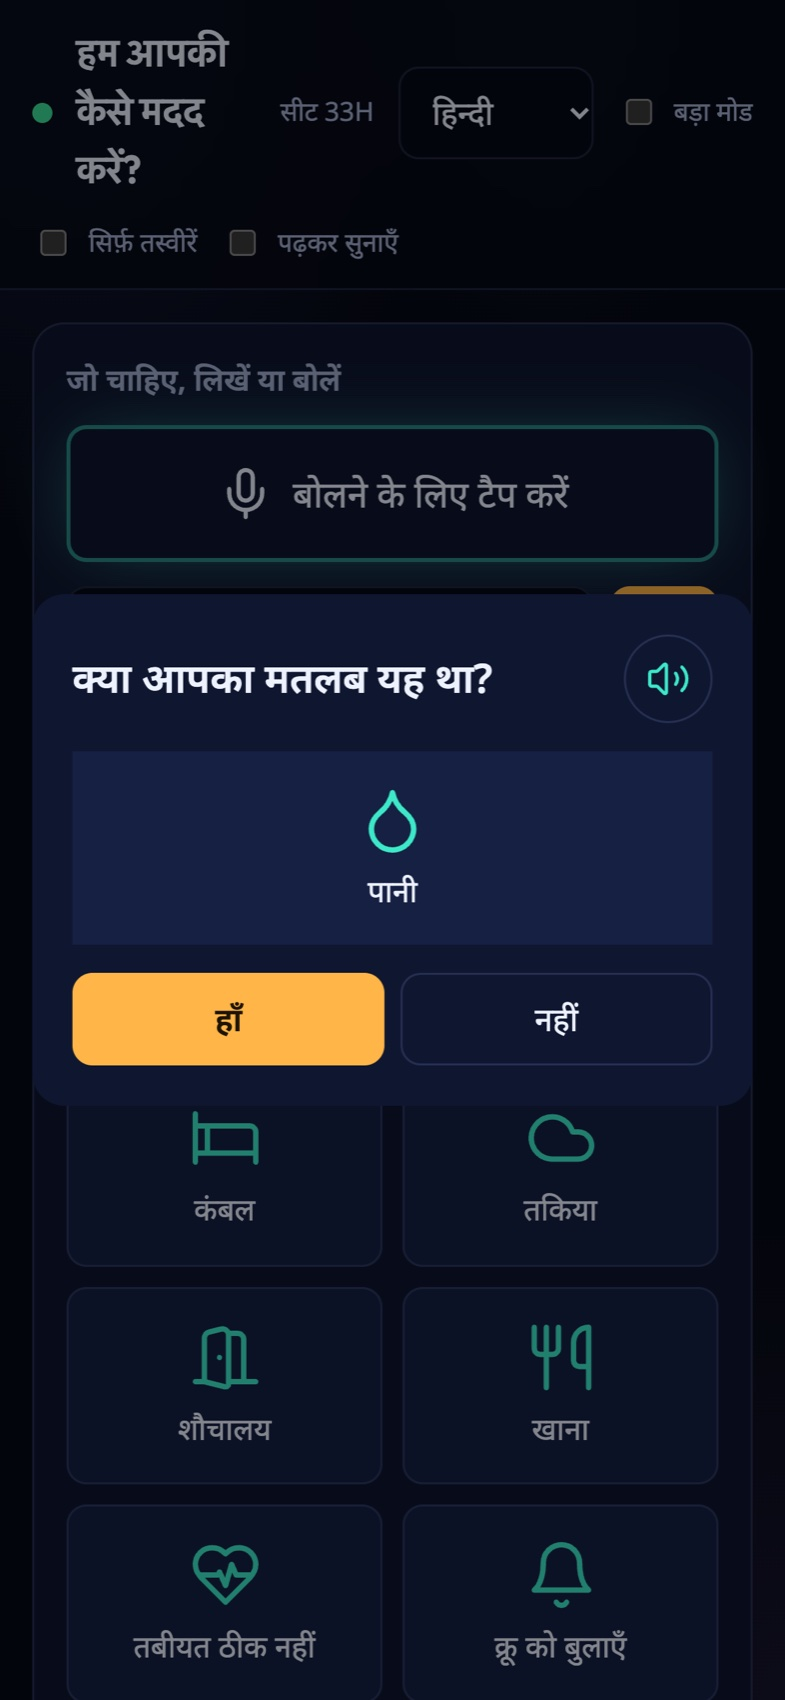
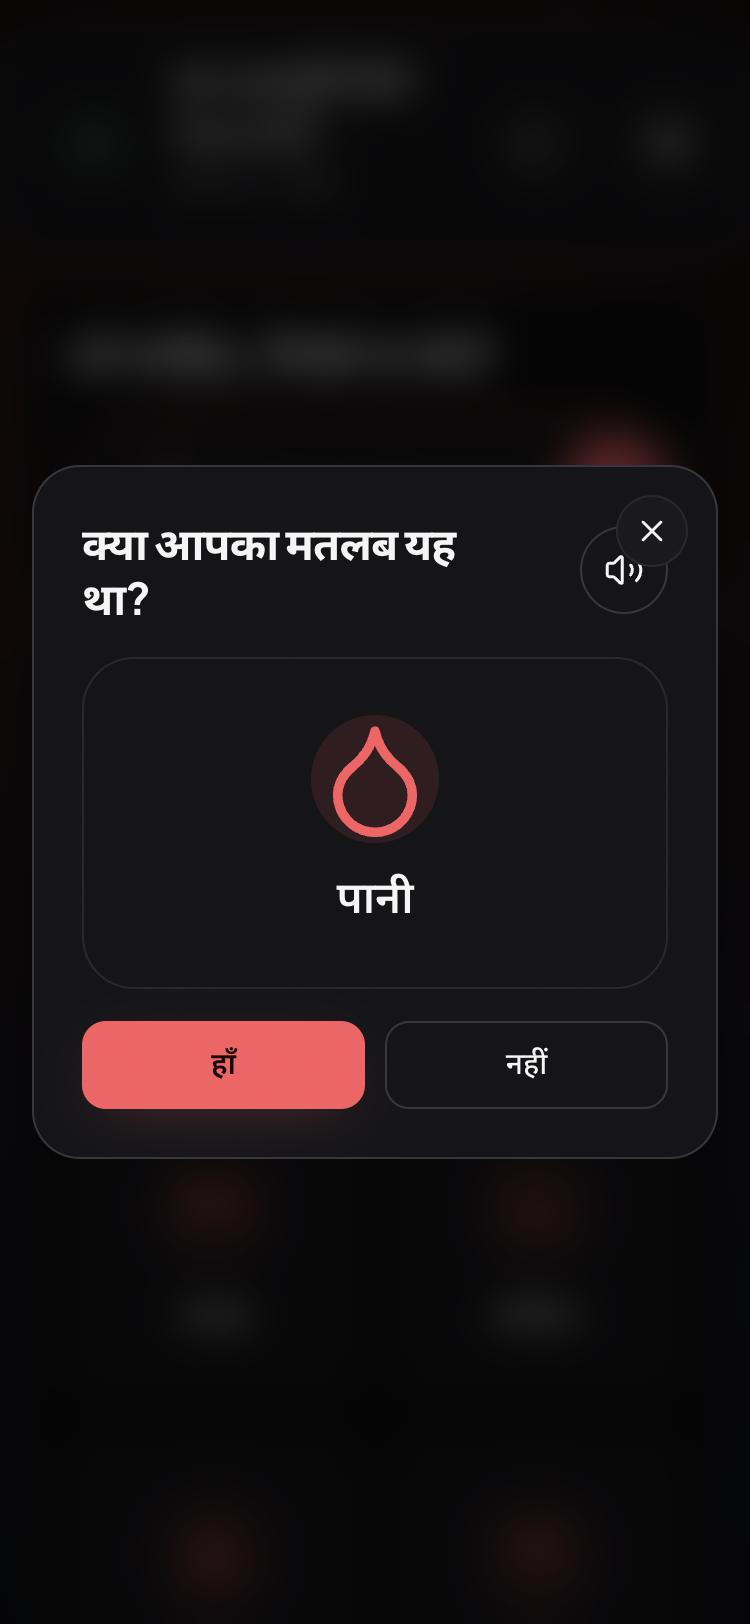
Update README with the onboarding assistant, scanner and deploy options
Fresh screenshots (onboarding, language picker, seat picker, crew
tablet, cabin-map colours) replace stale pre-redesign ones. New
feature-guide sections cover the onboarding assistant, the shared
cabin scanner and cabin-map accessibility colours; a new deploying
section covers Docker, Render, Hugging Face Spaces and the Cloudflare
tunnel. Test count and page paths updated to match the current app.

diff --git a/README.md b/README.md
@@ -15,7 +15,9 @@ pinned: false
 
   <p><strong>Every passenger, understood.</strong></p>
   <p>Repair-first communication between airline passengers and cabin crew, across accents, languages and a loud cabin.<br />
-  When speech is unclear, Auralink <strong>asks the passenger one simple question</strong> instead of guessing.</p>
+  When speech is unclear, Auralink <strong>asks the passenger one simple question</strong> instead of guessing.<br />
+  A guided onboarding assistant welcomes every passenger in their own language, and one shared scanner replaces a
+  QR code per seat.</p>
 
   <p>
     <a href="https://github.com/goyalnishtha841/auralink/actions/workflows/tests.yml"><img src="https://github.com/goyalnishtha841/auralink/actions/workflows/tests.yml/badge.svg" alt="tests" /></a>
@@ -48,11 +50,17 @@ Every sentence a passenger or crew member reads comes from a reviewed template.
 
 <table>
   <tr>
-    <td width="32%" valign="top"><img src="docs/images/passenger.jpg" alt="Passenger phone in Hindi asking 'Did you mean: water?' with a yes/no button and an icon grid" /><br /><sub><b>Passenger phone.</b> No app to install: scan the seat QR. Asks instead of guessing, in the passenger's language, with pictures.</sub></td>
-    <td width="68%" valign="top"><img src="docs/images/crew.png" alt="Crew tablet in Japanese with an urgent possible-medical card for seat 31C, safety briefing seat map and live PA captions" /><br /><sub><b>Crew tablet, in Japanese.</b> Urgent requests jump the queue before the passenger has even confirmed. Also on this screen: the safety-briefing heat map, care rounds, passenger needs and live PA captions.</sub></td>
+    <td width="32%" valign="top"><img src="docs/images/onboarding.jpg" alt="A guided onboarding screen: 'Welcome aboard!' with an illustrated crew-avatar assistant in front of a cabin window, and a 'Let's get started' button" /><br /><sub><b>Onboarding assistant.</b> Every first-time passenger gets a short, skippable tour from an illustrated crew avatar, before anything else.</sub></td>
+    <td width="32%" valign="top"><img src="docs/images/languages.jpg" alt="Onboarding language picker listing English, Hindi, Tamil, Thai, Chinese, Spanish, French, Italian and more" /><br /><sub><b>16 languages.</b> Every onboarding screen, request and crew reply is fully translated, not just the ones Auralink can speak aloud.</sub></td>
+    <td width="32%" valign="top"><img src="docs/images/seat-picker.jpg" alt="A tap-your-seat cabin map, a 'Tap to say your seat number' microphone button, and a 'Scan boarding pass' option" /><br /><sub><b>One shared scanner.</b> No screen at every seat? One QR code for the whole cabin: tap a seat, say it, or scan a boarding pass.</sub></td>
   </tr>
   <tr>
-    <td colspan="2"><img src="docs/images/judge.png" alt="Under-the-hood view: the sentence, the words that matter, the split rule, and a scored bar for each candidate intent with the t1 threshold" /><br /><sub><b>Under the hood (the jury screen).</b> Every decision in the open: which words mattered, which rule fired, and how each request was scored against the thresholds.</sub></td>
+    <td width="32%" valign="top"><img src="docs/images/passenger.jpg" alt="Passenger phone in Hindi asking 'Did you mean: water?' with a yes/no button and an icon grid" /><br /><sub><b>Passenger phone.</b> Asks instead of guessing, in the passenger's language, with pictures.</sub></td>
+    <td width="32%" valign="top"><img src="docs/images/crew.jpg" alt="Crew tablet in Japanese with an urgent possible-medical card for seat 34K, water and blanket request cards, safety briefing seat map and live PA captions" /><br /><sub><b>Crew tablet, in Japanese.</b> Urgent requests jump the queue before the passenger has even confirmed.</sub></td>
+    <td width="32%" valign="top"><img src="docs/images/cabin-map.jpg" alt="Crew cabin map with a colour key: red for urgent, violet for accessibility, amber for an open request, grey for no request" /><br /><sub><b>Cabin map, at a glance.</b> A seat with an accessibility profile on file is shown in violet, distinct from a plain open request.</sub></td>
+  </tr>
+  <tr>
+    <td colspan="3"><img src="docs/images/judge.png" alt="Under-the-hood view: the sentence, the words that matter, the split rule, and a scored bar for each candidate intent with the t1 threshold" /><br /><sub><b>Under the hood (the jury screen).</b> Every decision in the open: which words mattered, which rule fired, and how each request was scored against the thresholds.</sub></td>
   </tr>
 </table>
 
@@ -60,7 +68,8 @@ Every sentence a passenger or crew member reads comes from a reviewed template.
 
 - [How it works](#how-it-works) · [Results](#results) · [Features](#features)
 - [Run it](#run-it) · [On phones](#on-phones) · [Testing and CI](#testing-and-ci)
-- [Feature guide](#feature-guide) · [For developers](#for-developers) · [Evaluation](#evaluation)
+- [Feature guide](#feature-guide) · [Deploying a live demo](#deploying-a-live-demo)
+- [For developers](#for-developers) · [Evaluation](#evaluation)
 
 ## How it works
 
@@ -134,10 +143,18 @@ matching, and **1.0–1.2 s** from the end of speech to the confirm screen (targ
 
 ## Features
 
+- **A guided onboarding assistant**: a short, skippable tour from an illustrated crew avatar on a
+  passenger's first visit, fully translated into 16 languages, not just the ones Auralink can speak aloud
+  ([onboarding assistant](#onboarding-assistant))
+- **One shared scanner for the whole cabin**: tap a seat on a map, say it out loud, or scan a boarding
+  pass — no screen (and no printed QR code) needed at every seat ([shared scanner](#shared-cabin-scanner))
 - **Voice, text or icons, in the passenger's language**: Whisper n-best plus a phonetic matcher, with a
   confirm step instead of guessing ([what is real](#what-is-real-and-what-is-a-placeholder))
 - **Accent-aware matching** with hand-set and learned accent costs ([evaluation](#evaluation),
   [learned costs](#learned-accent-costs))
+- **Accessibility as a first-class signal**: a passenger's accessibility profile follows them from
+  check-in onto the crew's cabin map, shown in its own colour, distinct from a plain open request
+  ([cabin-map colours](#cabin-map-accessibility-colours))
 - **Safety briefing that checks understanding**: a live seat heat map of who understood, who wants it
   explained again, and an exit-row check
 - **Check-in at the gate** for language and accessibility needs ([check-in](#check-in-the-airport-stage))
@@ -147,7 +164,10 @@ matching, and **1.0–1.2 s** from the end of speech to the confirm screen (targ
 - **Crash recovery**: cabin state survives a hub restart ([crash recovery](#crash-recovery))
 - **Crew PIN**: crew, presenter, report and jury screens are locked on the shared cabin Wi-Fi ([crew PIN](#crew-pin))
 - **New languages without code or retraining** ([adding a language](#adding-a-language-no-code-no-retraining)):
-  Hindi, Tamil, Thai, English and Hinglish today
+  16 languages of onboarding and request text today, with speech recognition and offline voice in
+  English, Hindi, Tamil and Thai
+- **Deployable as a live demo in minutes**: Docker, a free Render web service, a free Hugging Face
+  Space, or a one-command tunnel from a laptop ([deploying a live demo](#deploying-a-live-demo))
 - **Voice collection** for the held-out evaluation set ([collecting voices](#collecting-voices))
 
 ## Run it
@@ -159,16 +179,21 @@ brew install espeak-ng          # phoneme matcher; apt install espeak-ng on Linu
 scripts/run.sh
 ```
 
-**Then open the Start page address the script prints (usually <http://localhost:8000/start.html>) on the same laptop.** The Start page explains everything in
-plain words: how phones reach the laptop with no internet, the seat QR code to scan, the crew PIN (shown
+**Then open the Start page address the script prints (usually <http://localhost:8000/start>) on the same laptop.** The Start page explains everything in
+plain words: how phones reach the laptop with no internet, how a passenger finds their seat, the crew PIN (shown
 only on this laptop), and what every page is for. To try it alone, open **Passenger** and **Crew** side by
 side, choose a language on the passenger screen, and type "thoda wotter and kambal".
 
 | Who | Opens | How |
 |---|---|---|
-| Passenger | `/passenger.html?seat=34K` | Scans the QR code on the seat (print them from `/seats.html`); picks a language the first time |
-| Cabin crew | `/crew.html` | Tablet on the same Wi-Fi; enters the crew PIN once |
-| Jury | `/judge.html` | Under the hood: how each request was understood (crew PIN) |
+| Passenger | `/passenger` | One shared scanner for the whole cabin: tap a seat on the map, say it, or scan a boarding pass. A first-time seat also gets the onboarding assistant |
+| Passenger (direct) | `/passenger?seat=34K` | A printable per-seat QR still works too (print them from `/seats`); picks a language the first time |
+| Cabin crew | `/crew` | Tablet on the same Wi-Fi; enters the crew PIN once |
+| Jury | `/judge` | Under the hood: how each request was understood (crew PIN) |
+
+The current screens are a Next.js app (`web/`), built to `web/out/` and served by the hub at these same
+paths (a `.html` suffix, e.g. `/passenger.html`, still works too). An older, plain HTML/JS set of screens
+ships alongside it as a fallback: `AURALINK_UI=classic scripts/run.sh`.
 
 Port 8000 busy (another app, for example another project's server)? `scripts/run.sh` and
 `scripts/demo.sh` then pick the next free port by themselves (8001, 8002 ...) and print the exact address,
@@ -230,10 +255,23 @@ certificate on each demo phone.
 
 </details>
 
+## Deploying a live demo
+
+| Option | Use when | How |
+|---|---|---|
+| Docker (full) | A persistent server with a few GB RAM, e.g. an Oracle Cloud Always Free Ampere VM | `docker compose up -d` (`Dockerfile`, `docker-compose.yml`, `Caddyfile` — automatic HTTPS) |
+| Render free web service | A free, no-card, always-on-ish link, trading away Free Talk's translation/voice | Connect the repo on Render as a **Blueprint** (`render.yaml` → `Dockerfile.render`, a trimmed build) |
+| Hugging Face Spaces | A free, no-card, full-featured link with more RAM than Render's free tier | Push to a Space's git remote (SDK: Docker — this README's front matter already has it) |
+| Cloudflare Quick Tunnel | Fastest: a public HTTPS link to a hub already running on your own laptop | `cloudflared tunnel --url http://localhost:8000` |
+
+Render's free 512 MB tier can't hold Free Talk's translation/voice models, so `Dockerfile.render` drops
+them (`requirements-render.txt`); everything else — onboarding, the shared scanner, requests, the crew
+tablet — is unaffected, since `engine/translate.py` and `engine/tts.py` degrade gracefully without them.
+
 ### Testing and CI
 
 ```bash
-.venv/bin/python -m pytest -q    # 99 tests
+.venv/bin/python -m pytest -q    # 166 tests (3 skip without Whisper: AURALINK_SKIP_WHISPER=1)
 .venv/bin/ruff check .
 ```
 
@@ -251,6 +289,30 @@ need the Whisper model are skipped there (`AURALINK_SKIP_WHISPER=1`), so CI neve
 | `apps/` | D | Original plain HTML/JS screens, kept as a fallback (`AURALINK_UI=classic scripts/run.sh`) |
 
 ## Feature guide
+
+### Onboarding assistant
+
+`/passenger` with no seat (or a first-ever visit to a seat) opens a short, skippable tour hosted by an
+illustrated crew avatar: welcome, language, what Auralink can do, a demo request, a picture-only mode,
+announcements, accessibility and a wrap-up. Text is fully translated into 16 languages
+(`web/components/onboarding.jsx`); spoken narration uses the hub's offline voice where available and
+falls back to the browser's own, with a note when it can't speak a language yet. Completion is
+remembered per seat in `localStorage`, and a floating button replays it, asks for help, or changes
+language/accessibility settings at any time.
+
+### Shared cabin scanner
+
+Not every seat has a screen, so `/passenger` with no `?seat=` shows one tap-your-seat cabin map instead
+of needing a QR code at every seat. Three ways in: tap a seat, say its number (offline speech, same
+matcher as every other request), or **Scan boarding pass** — every real boarding pass carries an
+IATA BCBP barcode (`hub/bcbp.py`) with the seat on it, decoded entirely client-side. Per-seat QR codes
+(`/seats`) still work as a direct alternative. `/boarding-pass` issues a test boarding pass for demos.
+
+### Cabin-map accessibility colours
+
+On the crew tablet's cabin map, a seat with an accessibility profile on file (from check-in or the
+passenger's own settings) is shown in violet, distinct from a plain open request (amber) — urgent
+(red) still wins if both apply. The colour key is shown above the map and on the Start page FAQ.
 
 ### Check-in (the airport stage)
 
